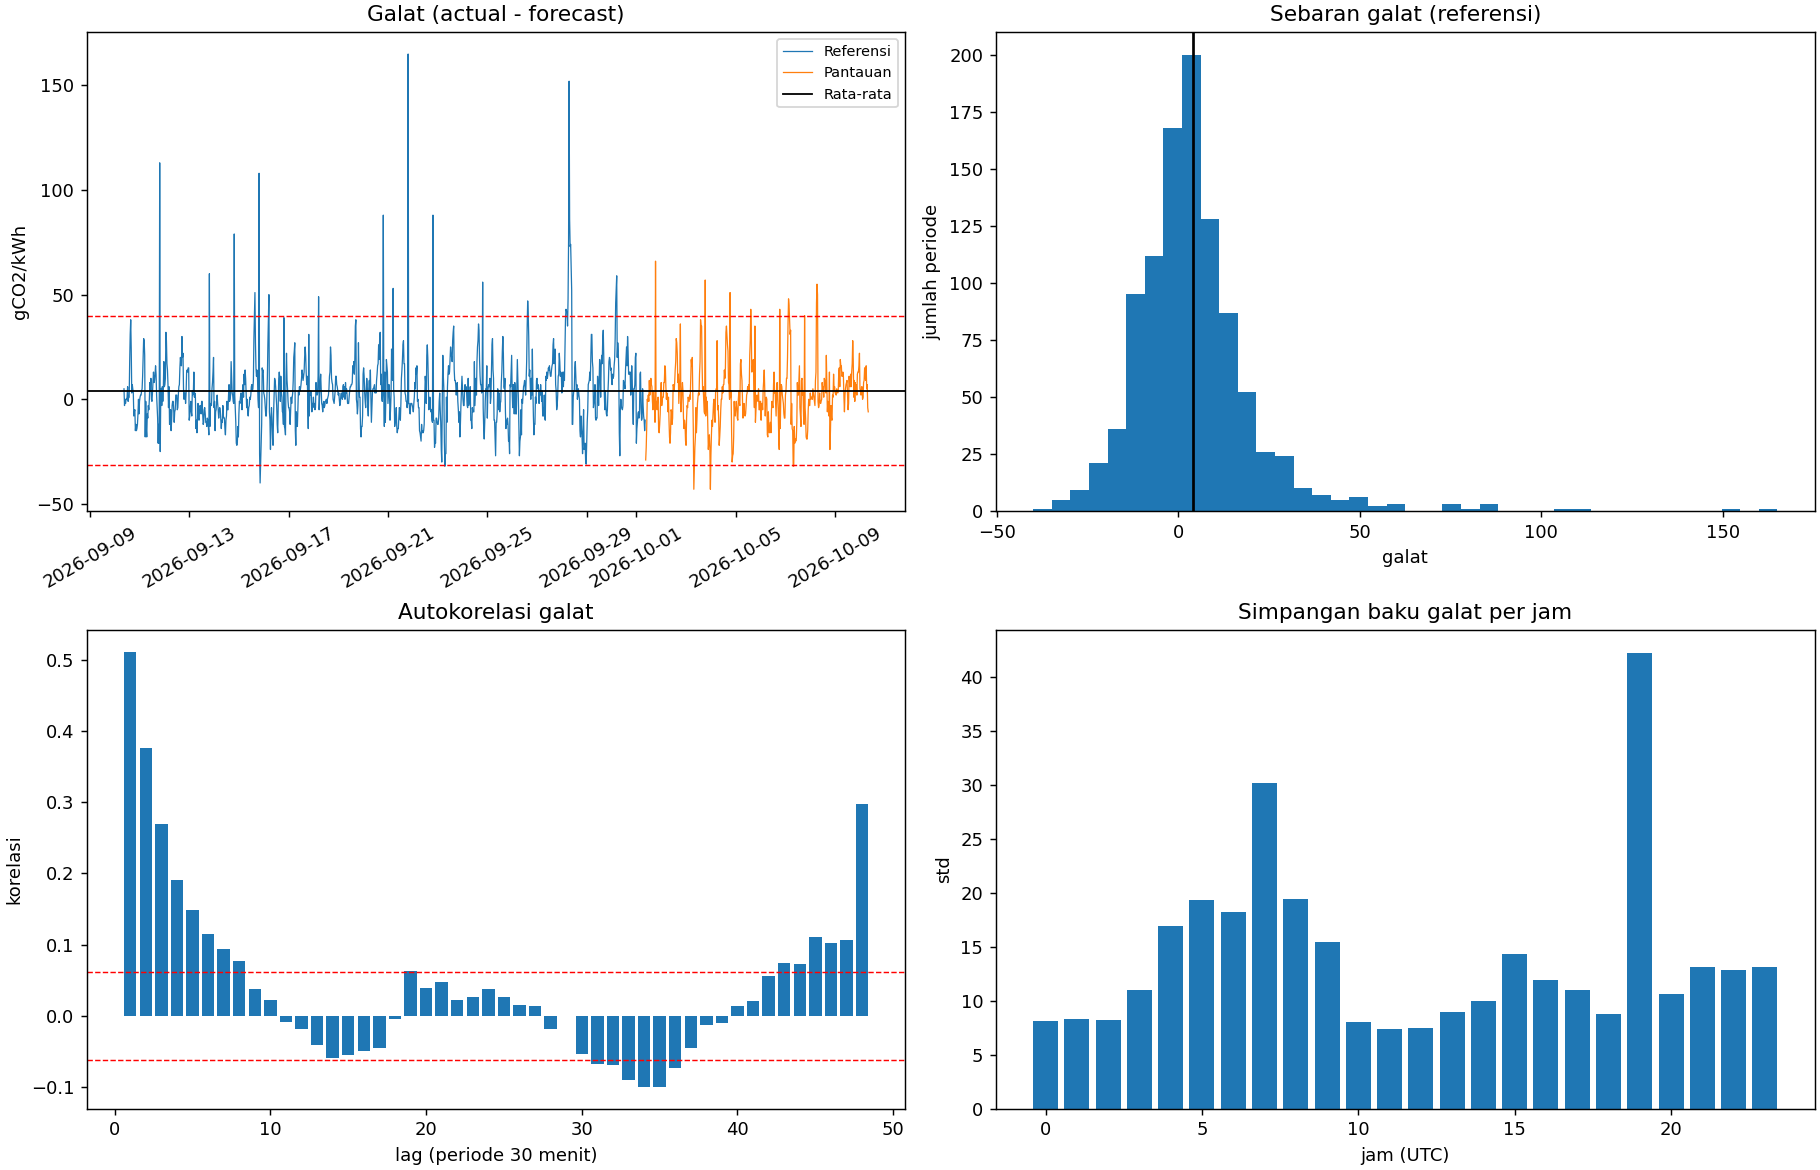
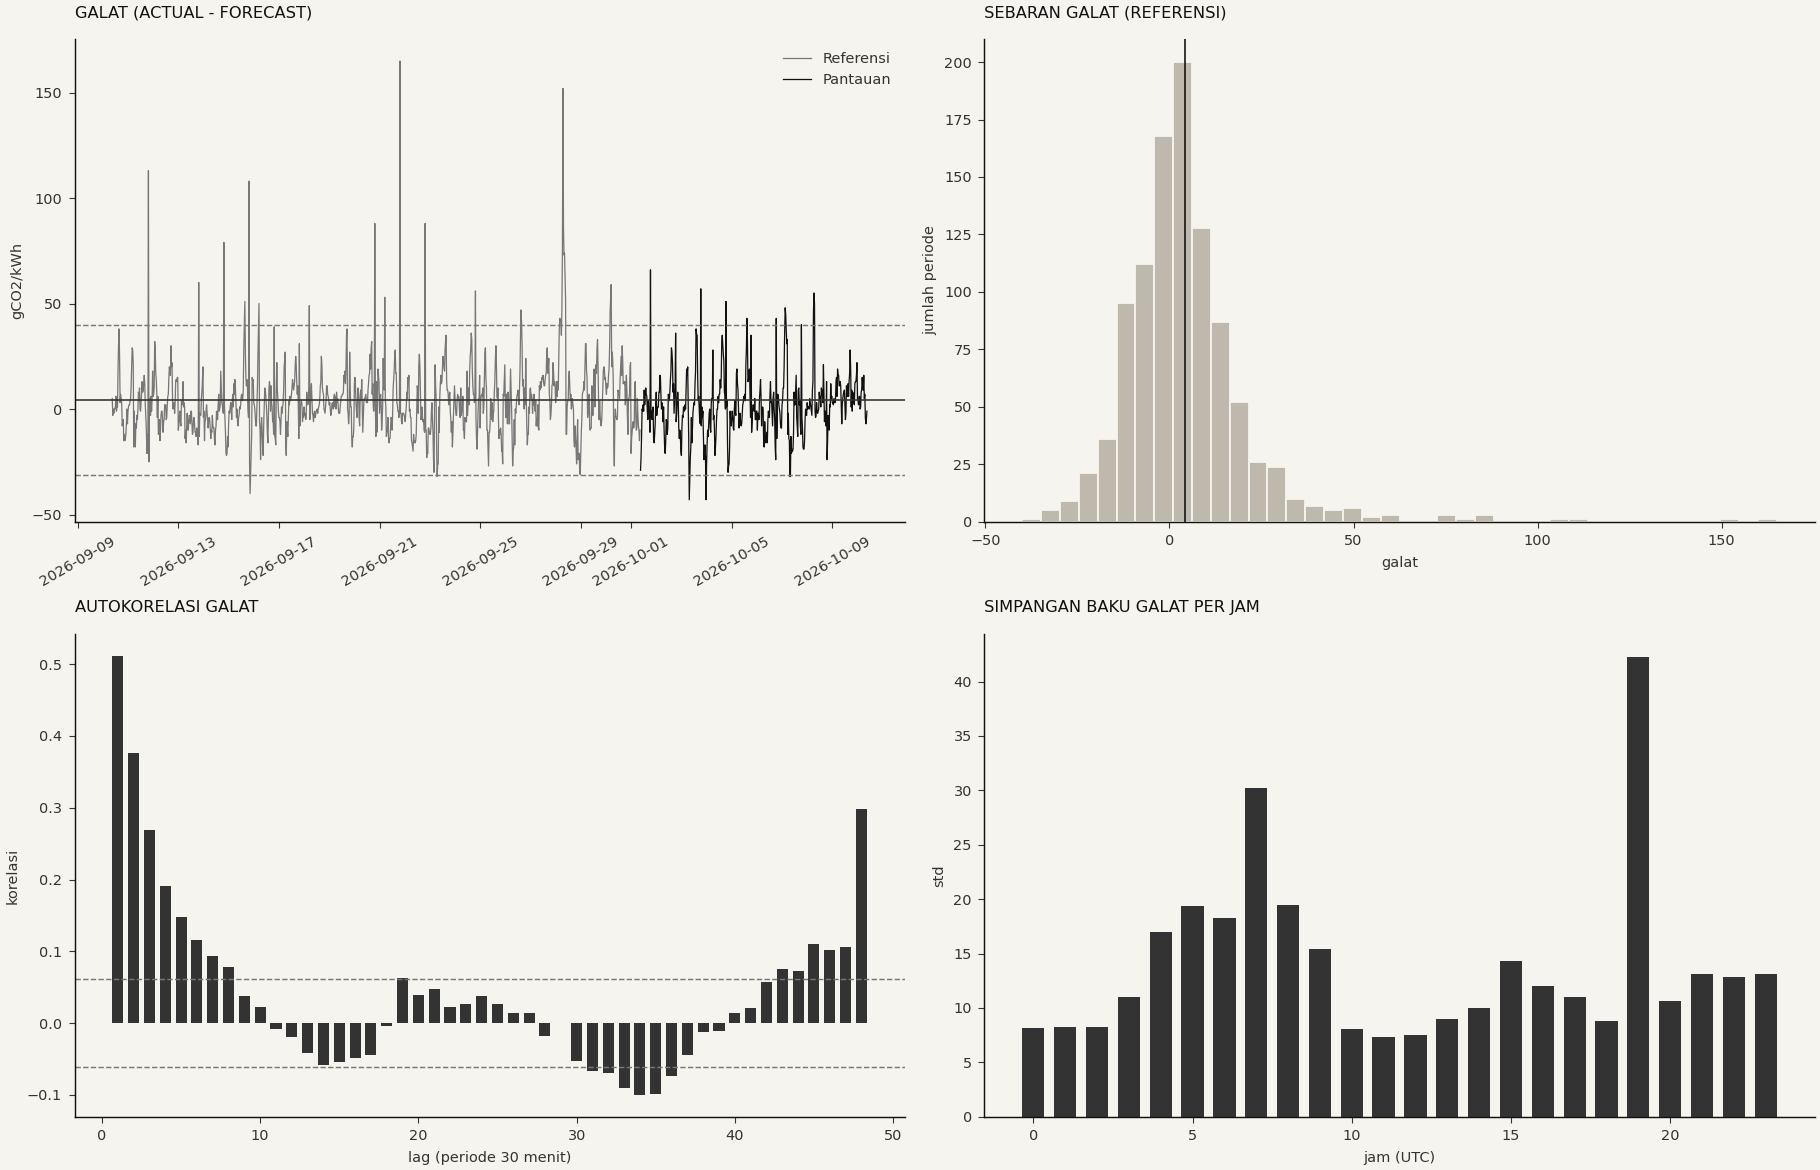
Perbarui README

diff --git a/eda.py b/eda.py
@@ -20,6 +20,8 @@ LAGS = (1, 2, 4, 48)  # in 30-minute periods; 48 = same time on the previous day
 MIN_REFERENCE_ROWS = 100
 MAD_TO_STD = 1.4826  # scales the MAD to estimate the standard deviation of normal data
 
+INK, DARK, MID, WARM, PAPER = "#111111", "#333333", "#777777", "#BEB8AD", "#F6F4EE"
+
 
 @dataclass(frozen=True)
 class Baseline:
@@ -75,6 +77,19 @@ def hourly_profile(frame: pd.DataFrame) -> pd.DataFrame:
     return grouped.agg(["mean", "std", "count"]).rename_axis("hour_utc")
 
 
+def _style(ax, title: str, xlabel: str = "", ylabel: str = "") -> None:
+    ax.set_facecolor(PAPER)
+    ax.set_title(title, loc="left", fontsize=9, color=INK, pad=12)
+    ax.set_xlabel(xlabel, fontsize=8, color=DARK)
+    ax.set_ylabel(ylabel, fontsize=8, color=DARK)
+    for side in ("top", "right"):
+        ax.spines[side].set_visible(False)
+    for side in ("left", "bottom"):
+        ax.spines[side].set_color(INK)
+        ax.spines[side].set_linewidth(0.8)
+    ax.tick_params(colors=DARK, labelsize=8, width=0.6)
+
+
 def plot_summary(
     reference: pd.DataFrame,
     monitoring: pd.DataFrame,
@@ -82,35 +97,38 @@ def plot_summary(
     hourly: pd.DataFrame,
     path: Path = FIGURE_PATH,
 ) -> None:
-    fig = Figure(figsize=(14, 9), layout="constrained")
+    fig = Figure(figsize=(14, 9), facecolor=PAPER, layout="constrained")
     (series_ax, hist_ax), (acf_ax, hour_ax) = fig.subplots(2, 2)
 
-    series_ax.plot(reference["timestamp"], reference["error"], lw=0.7, label="Referensi")
-    series_ax.plot(monitoring["timestamp"], monitoring["error"], lw=0.7, label="Pantauan")
-    series_ax.axhline(baseline.mean, color="k", lw=1, label="Rata-rata")
+    series_ax.plot(reference["timestamp"], reference["error"], lw=0.7, color=MID, label="Referensi")
+    series_ax.plot(
+        monitoring["timestamp"], monitoring["error"], lw=0.7, color=INK, label="Pantauan"
+    )
+    series_ax.axhline(baseline.mean, color=DARK, lw=0.9)
     for sign in (-1, 1):
-        limit = baseline.mean + sign * 3 * baseline.robust_std
-        series_ax.axhline(limit, color="r", ls="--", lw=0.8)
-    series_ax.set(title="Galat (actual - forecast)", ylabel="gCO2/kWh")
+        series_ax.axhline(
+            baseline.mean + sign * 3 * baseline.robust_std, color=MID, ls="--", lw=0.8
+        )
+    _style(series_ax, "GALAT (ACTUAL - FORECAST)", ylabel="gCO2/kWh")
     series_ax.tick_params(axis="x", rotation=30)
-    series_ax.legend(fontsize=8)
+    series_ax.legend(fontsize=8, frameon=False, labelcolor=DARK)
 
-    hist_ax.hist(reference["error"], bins=40)
-    hist_ax.axvline(baseline.mean, color="k")
-    hist_ax.set(title="Sebaran galat (referensi)", xlabel="galat", ylabel="jumlah periode")
+    hist_ax.hist(reference["error"], bins=40, color=WARM, edgecolor=PAPER)
+    hist_ax.axvline(baseline.mean, color=INK, lw=0.9)
+    _style(hist_ax, "SEBARAN GALAT (REFERENSI)", "galat", "jumlah periode")
 
     lags = range(1, 49)
-    acf_ax.bar(lags, [reference["error"].autocorr(lag) for lag in lags])
+    acf_ax.bar(lags, [reference["error"].autocorr(lag) for lag in lags], color=DARK, width=0.7)
     bound = 1.96 / np.sqrt(len(reference))
-    acf_ax.axhline(bound, color="r", ls="--", lw=0.8)
-    acf_ax.axhline(-bound, color="r", ls="--", lw=0.8)
-    acf_ax.set(title="Autokorelasi galat", xlabel="lag (periode 30 menit)", ylabel="korelasi")
+    for sign in (-1, 1):
+        acf_ax.axhline(sign * bound, color=MID, ls="--", lw=0.8)
+    _style(acf_ax, "AUTOKORELASI GALAT", "lag (periode 30 menit)", "korelasi")
 
-    hour_ax.bar(hourly.index, hourly["std"])
-    hour_ax.set(title="Simpangan baku galat per jam", xlabel="jam (UTC)", ylabel="std")
+    hour_ax.bar(hourly.index, hourly["std"], color=DARK, width=0.7)
+    _style(hour_ax, "SIMPANGAN BAKU GALAT PER JAM", "jam (UTC)", "std")
 
     Path(path).parent.mkdir(parents=True, exist_ok=True)
-    fig.savefig(path, dpi=130)
+    fig.savefig(path, dpi=130, facecolor=PAPER)
 
 
 def format_report(
